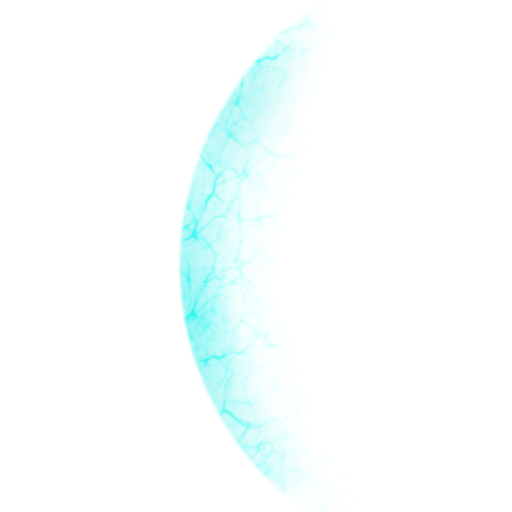
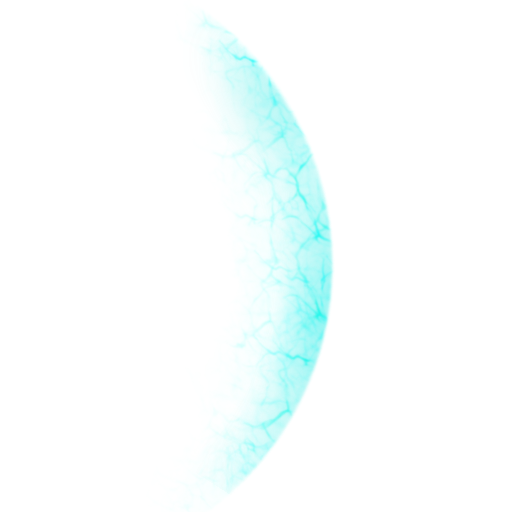
Fixed shield not blocking raycast animations. Flipped shield arts.

Changed region(s): [[0.3438, 0.0312, 0.6562, 0.9688]]

diff --git a/Milky Whey/Assets/Scripts/ResourcePlanetFetching.cs b/Milky Whey/Assets/Scripts/ResourcePlanetFetching.cs
@@ -59,6 +59,9 @@ public class ResourcePlanetFetching : MonoBehaviour {
 					planets [i].GetComponent<StormBeam> ().DestroyMagicBeam();
 				}
 			} 
+			if (hit.collider != null && hit.collider.tag == "Shield") {
+				planets [i].GetComponent<StormBeam> ().DestroyMagicBeam();
+			}
 		}
 	}
 
